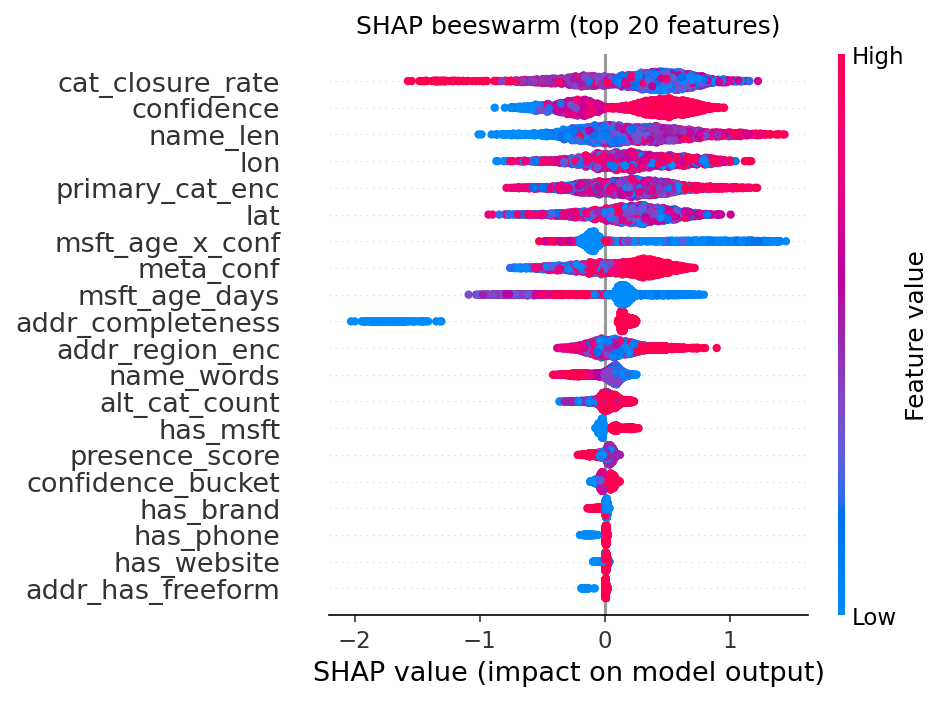
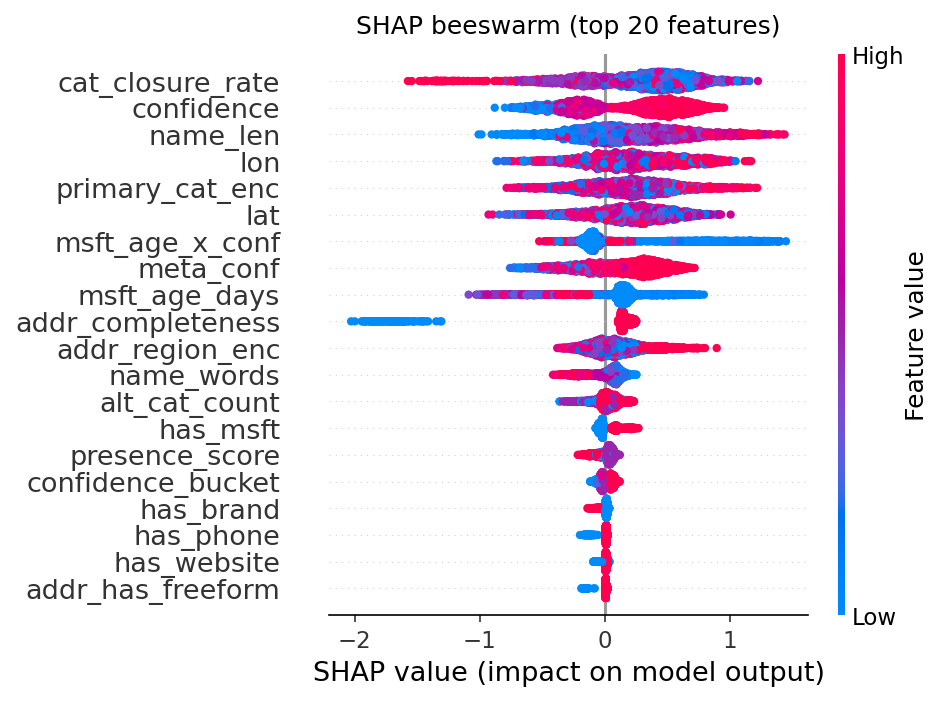
updates

Changed region(s): [[0.5228, 0.0897, 0.8303, 0.4487], [0.5843, 0.4786, 0.7073, 0.5983], [0.6151, 0.6282, 0.6458, 0.7179]]

diff --git a/train_competition.py b/train_competition.py
@@ -53,7 +53,7 @@ print("=" * 65)
 
 # ── 1. LOAD ────────────────────────────────────────────────────────────────────
 print("\n[1/6] Loading data …")
-df = pd.read_parquet(args.data)
+df = pd.read_parquet("data/project_c_samples.parquet")
 print(f"    {len(df):,} rows × {df.shape[1]} columns")
 
 # ── Handle both sample file (no eval_type) and full competition file ───────────
@@ -354,10 +354,9 @@ for fold, (tr_idx, va_idx) in enumerate(skf.split(X_train_static, y_train), 1):
     # ── Build fold feature matrices ───────────────────────────────────────────
     X_tr = X_train_static.iloc[tr_idx].copy()
     X_va = X_train_static.iloc[va_idx].copy()
-    X_tr["cat_closure_rate"] = oof_cat_closure[
-        tr_idx
-    ]  # train fold: use their OOF (zeros for first fold, ok)
-    X_va["cat_closure_rate"] = oof_cat_closure[va_idx]
+    X_tr["cat_closure_rate"] = tr_cats.map(cat_closure_map).fillna(global_mean).values
+    X_va["cat_closure_rate"] = va_cats.map(cat_closure_map).fillna(global_mean).values
+    oof_cat_closure[va_idx] = X_va["cat_closure_rate"].values
 
     # ── External signal feature (train only — per spec) ───────────────────────
     if HAS_EXTERNAL: